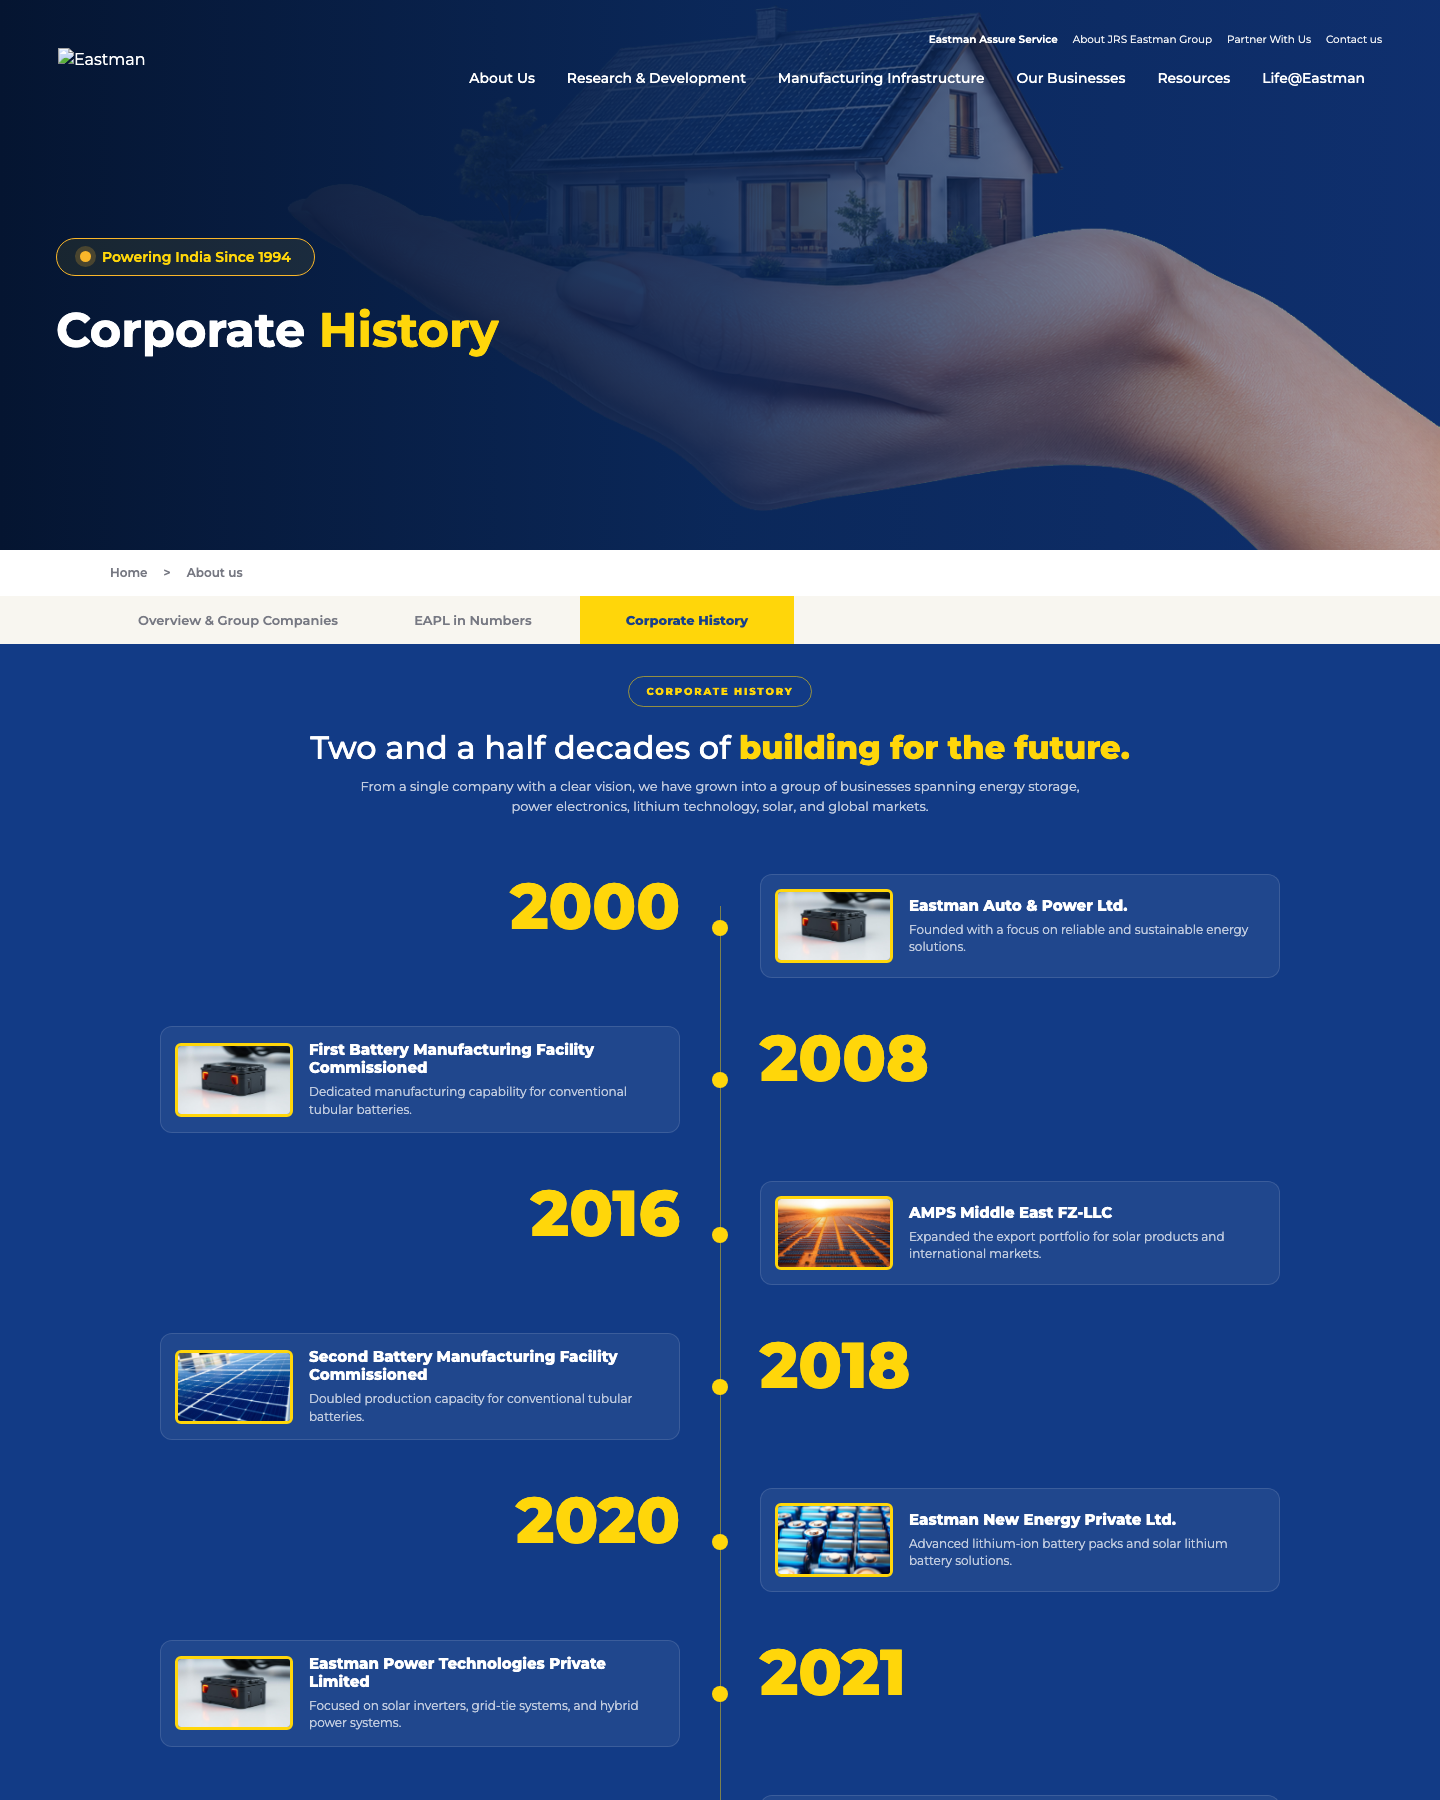
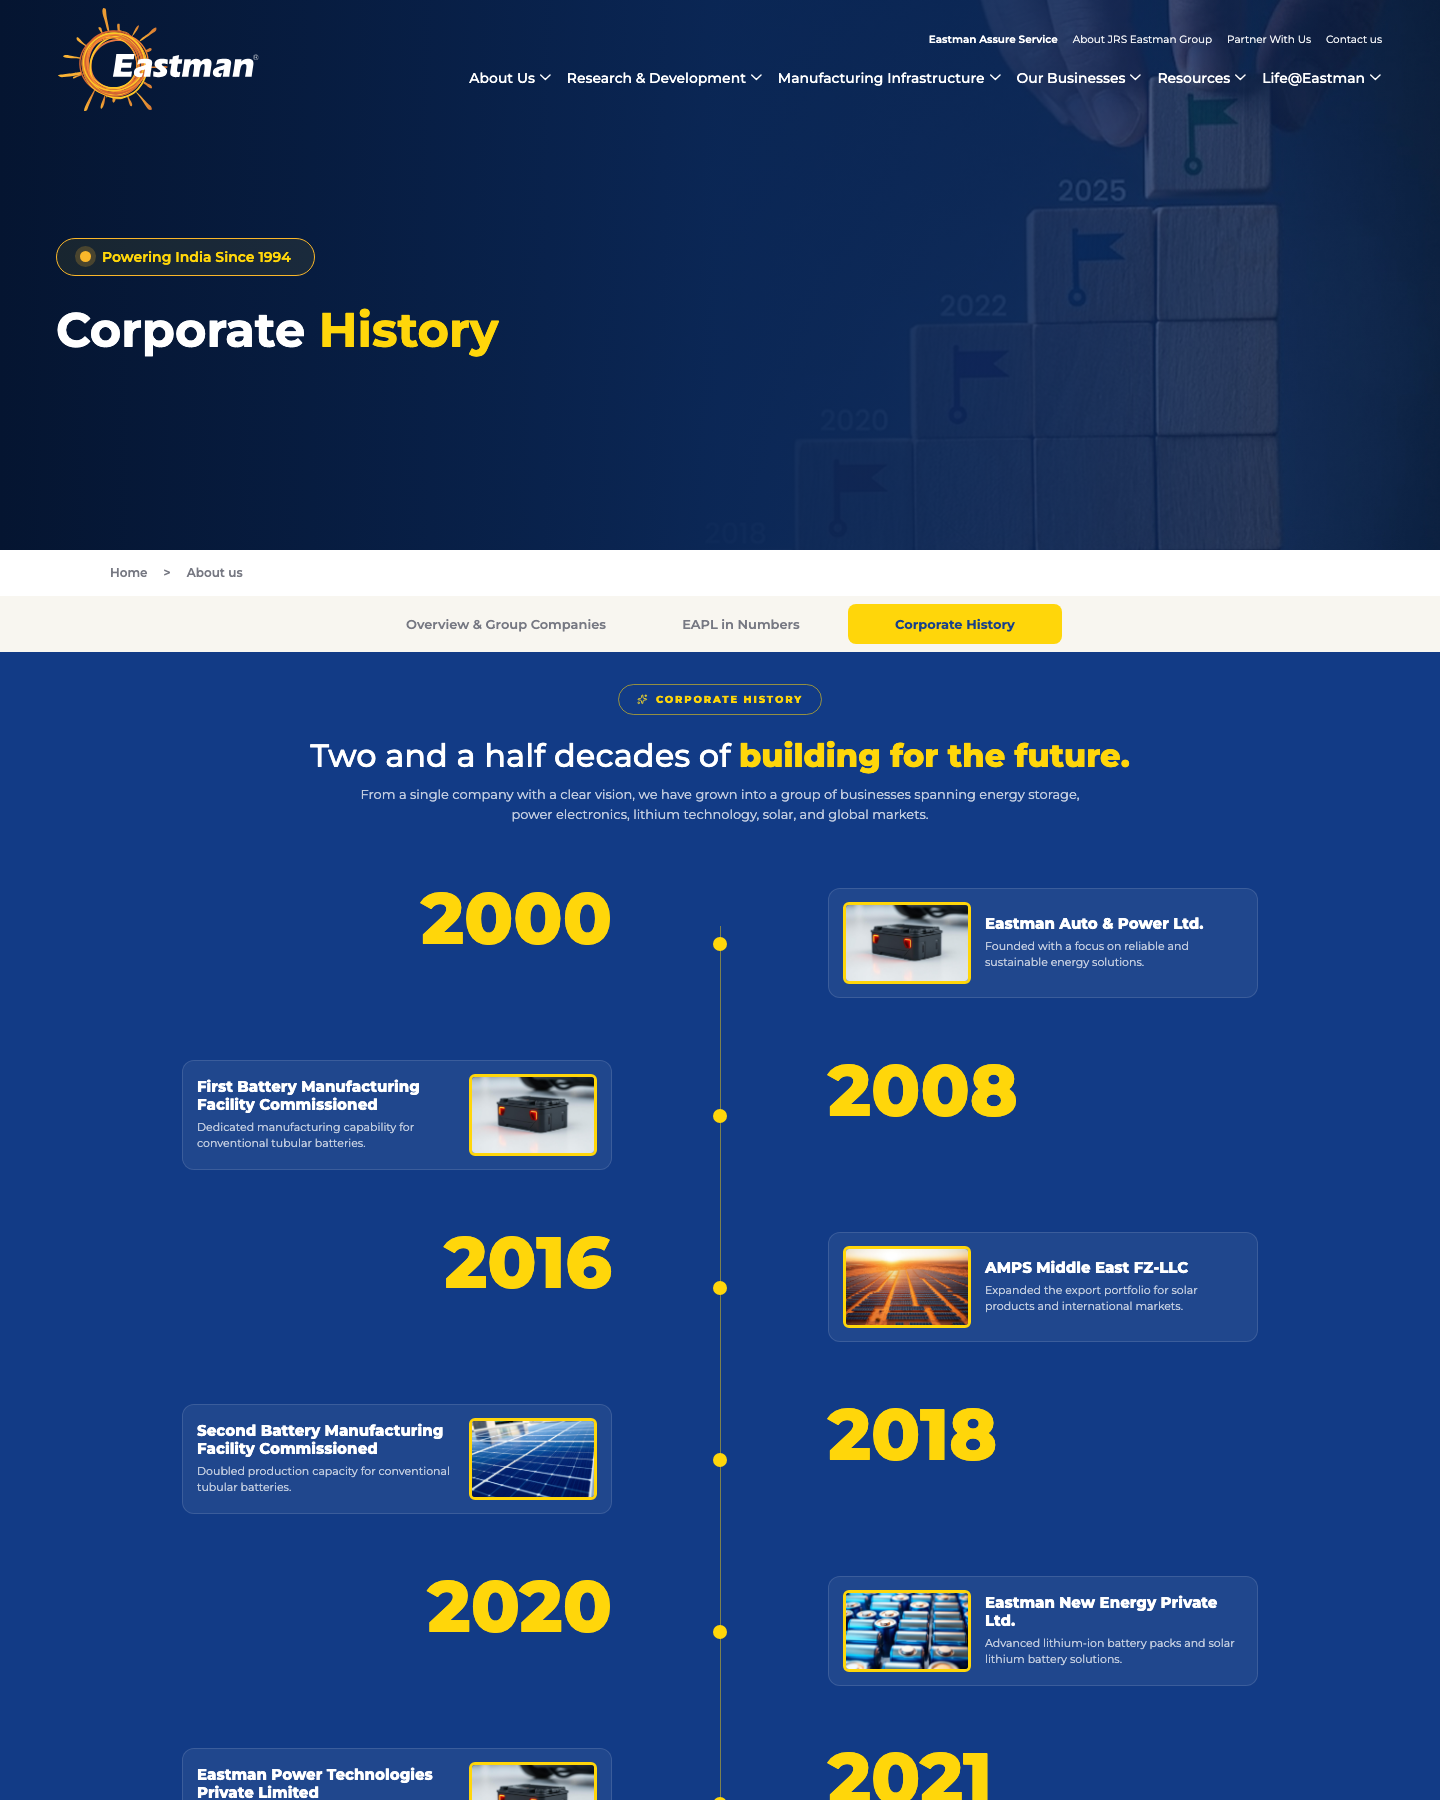
With About all three tabs

diff --git a/css/about.css b/css/about.css
@@ -544,7 +544,7 @@ z-index: 1;
 .timeline::before {
   background: rgba(255, 214, 10, 0.45);
   content: "";
-  height: calc(100% - 86px);
+  height: calc(100% - 118px);
   left: 50%;
   position: absolute;
   top: 44px;
@@ -553,10 +553,11 @@ z-index: 1;
 
 .timeline-item {
   display: grid;
-  grid-template-columns: minmax(0, 390px) 142px minmax(0, 390px);
+  align-items: start;
+  grid-template-columns: minmax(0, 430px) 132px minmax(0, 430px);
   justify-content: center;
-  min-height: 158px;
-  margin-bottom: 14px;
+  min-height: 154px;
+  margin-bottom: 18px;
   position: relative;
 }
 
@@ -571,11 +572,26 @@ z-index: 1;
   width: 14px;
 }
 
-.timeline-item time {
+.timeline-year {
   color: var(--yellow);
+  min-width: 190px;
+}
+
+.timeline-item time {
+  display: block;
   font-size: 72px;
   font-weight: 800;
   line-height: 1;
+}
+
+.timeline-year span {
+  display: block;
+  font-size: 8px;
+  font-weight: 800;
+  letter-spacing: 0.42em;
+  line-height: 1;
+  margin-top: 10px;
+  text-transform: uppercase;
 }
 
 .timeline-card {
@@ -588,7 +604,7 @@ z-index: 1;
   grid-template-columns: 128px 1fr;
   min-height: 110px;
   padding: 12px 14px;
-  width: 382px;
+  width: 430px;
 }
 
 .timeline-card img {
@@ -614,29 +630,97 @@ z-index: 1;
   margin: 0;
 }
 
-.timeline-item--right time {
-  grid-column: 1 / 3;
-  justify-self: center;
-  padding-right: 48px;
+.timeline-item--right .timeline-year {
+  grid-column: 1;
+  justify-self: end;
+  margin-right: 42px;
+  text-align: right;
 }
 
 .timeline-item--right .timeline-card {
   grid-column: 3;
   justify-self: start;
+  margin-left: 42px;
   margin-top: 6px;
 }
 
-.timeline-item--left time {
-  grid-column: 2 / 4;
-  justify-self: center;
-  padding-left: 48px;
+.timeline-item--left .timeline-year {
+  grid-column: 3;
+  justify-self: start;
+  margin-left: 42px;
+  text-align: left;
 }
 
 .timeline-item--left .timeline-card {
   grid-column: 1;
   grid-row: 1;
+  grid-template-columns: 1fr 128px;
   justify-self: end;
+  margin-right: 42px;
   margin-top: 6px;
+}
+
+.timeline-item--left .timeline-card img {
+  grid-column: 2;
+}
+
+.timeline-item--left .timeline-card div {
+  grid-column: 1;
+  grid-row: 1;
+}
+
+.timeline-end {
+  align-items: center;
+  color: var(--yellow);
+  display: flex;
+  flex-direction: column;
+  gap: 14px;
+  margin: 20px auto 0;
+  position: relative;
+  text-align: center;
+  width: max-content;
+  z-index: 1;
+}
+
+.timeline-end span {
+  align-items: center;
+  background: var(--yellow);
+  border-radius: 50%;
+  display: flex;
+  height: 38px;
+  justify-content: center;
+  position: relative;
+  width: 38px;
+}
+/* 
+.timeline-end span::before {
+  border: 2px solid #123b86;
+  border-radius: 50%;
+  content: "";
+  height: 10px;
+  left: 12px;
+  position: absolute;
+  top: 9px;
+  width: 10px;
+}
+
+.timeline-end span::after {
+  border-left: 4px solid transparent;
+  border-right: 4px solid transparent;
+  border-top: 10px solid #123b86;
+  content: "";
+  left: 15px;
+  position: absolute;
+  top: 20px;
+} */
+
+.timeline-end p {
+  font-size: 8px;
+  font-weight: 800;
+  letter-spacing: 0.42em;
+  line-height: 1;
+  margin: 0;
+  text-transform: uppercase;
 }
 
 .history-market {
@@ -942,6 +1026,7 @@ z-index: 1;
   }
 
   .timeline::before {
+    height: calc(100% - 74px);
     left: 13px;
   }
 
@@ -959,30 +1044,91 @@ z-index: 1;
     width: 10px;
   }
 
-  .timeline-item time,
-  .timeline-item--right time,
-  .timeline-item--left time,
+  .timeline-year,
+  .timeline-item--right .timeline-year,
+  .timeline-item--left .timeline-year,
   .timeline-item--right .timeline-card,
   .timeline-item--left .timeline-card {
     grid-column: 2;
     justify-self: start;
   }
 
+  .timeline-year {
+    margin-left: 0;
+    margin-right: 0;
+    min-width: 0;
+    text-align: left;
+  }
+
   .timeline-item time {
     font-size: 20px;
   }
 
+  .timeline-year span {
+    font-size: 7px;
+    letter-spacing: 0.28em;
+    margin-top: 5px;
+  }
+
   .timeline-card {
     grid-template-columns: 1fr;
+    margin-left: 0;
+    margin-right: 0;
     min-width: 0;
     overflow: hidden;
     padding: 12px;
     width: 100%;
   }
 
+  .timeline-item--left .timeline-card {
+    grid-template-columns: 1fr;
+  }
+
   .timeline-card img {
+    grid-column: auto;
     height: 112px;
     width: 100%;
+  }
+
+  .timeline-item--left .timeline-card div {
+    grid-column: auto;
+    grid-row: auto;
+  }
+
+  .timeline-end {
+    align-items: flex-start;
+    gap: 10px;
+    margin: 8px 0 0 0;
+    padding-left: 0;
+    text-align: left;
+    width: auto;
+  }
+
+  .timeline-end span {
+    height: 30px;
+    margin-left: 3px;
+    width: 30px;
+  }
+
+  .timeline-end span::before {
+    height: 8px;
+    left: 9px;
+    top: 7px;
+    width: 8px;
+  }
+
+  .timeline-end span::after {
+    border-left-width: 3px;
+    border-right-width: 3px;
+    border-top-width: 8px;
+    left: 12px;
+    top: 17px;
+  }
+
+  .timeline-end p {
+    font-size: 7px;
+    letter-spacing: 0.28em;
+    padding-left: 0;
   }
 
   .timeline-card h3 {

diff --git a/corporate-history.html b/corporate-history.html
@@ -43,54 +43,58 @@
           </div>
           <div class="timeline">
             <article class="timeline-item timeline-item--right">
-              <time>2000</time>
+              <div class="timeline-year"><time>2000</time><span>Founded</span></div>
               <div class="timeline-card">
                 <img src="/images/group-power-tech.png" alt="" />
                 <div><h3>Eastman Auto &amp; Power Ltd.</h3><p>Founded with a focus on reliable and sustainable energy solutions.</p></div>
               </div>
             </article>
             <article class="timeline-item timeline-item--left">
-              <time>2008</time>
+              <div class="timeline-year"><time>2008</time><span>Capacity</span></div>
               <div class="timeline-card">
                 <img src="/images/group-power-tech.png" alt="" />
                 <div><h3>First Battery Manufacturing Facility Commissioned</h3><p>Dedicated manufacturing capability for conventional tubular batteries.</p></div>
               </div>
             </article>
             <article class="timeline-item timeline-item--right">
-              <time>2016</time>
+              <div class="timeline-year"><time>2016</time><span>Diversification</span></div>
               <div class="timeline-card">
                 <img src="/images/group-amps.png" alt="" />
                 <div><h3>AMPS Middle East FZ-LLC</h3><p>Expanded the export portfolio for solar products and international markets.</p></div>
               </div>
             </article>
             <article class="timeline-item timeline-item--left">
-              <time>2018</time>
+              <div class="timeline-year"><time>2018</time><span>50+ Countries</span></div>
               <div class="timeline-card">
                 <img src="/images/group-green-tech.png" alt="" />
                 <div><h3>Second Battery Manufacturing Facility Commissioned</h3><p>Doubled production capacity for conventional tubular batteries.</p></div>
               </div>
             </article>
             <article class="timeline-item timeline-item--right">
-              <time>2020</time>
+              <div class="timeline-year"><time>2020</time><span>Renewables</span></div>
               <div class="timeline-card">
                 <img src="/images/group-new-energy.png" alt="" />
                 <div><h3>Eastman New Energy Private Ltd.</h3><p>Advanced lithium-ion battery packs and solar lithium battery solutions.</p></div>
               </div>
             </article>
             <article class="timeline-item timeline-item--left">
-              <time>2021</time>
+              <div class="timeline-year"><time>2021</time><span>Storage 2.0</span></div>
               <div class="timeline-card">
                 <img src="/images/group-power-tech.png" alt="" />
                 <div><h3>Eastman Power Technologies Private Limited</h3><p>Focused on solar inverters, grid-tie systems, and hybrid power systems.</p></div>
               </div>
             </article>
             <article class="timeline-item timeline-item--right">
-              <time>2021</time>
+              <div class="timeline-year"><time>2021</time><span>EV Powertrain</span></div>
               <div class="timeline-card">
                 <img src="/images/group-green-tech.png" alt="" />
                 <div><h3>Eastman Green Technologies Pvt. Ltd.</h3><p>High-performance solar panels engineered for homes, commerce, and industry.</p></div>
               </div>
             </article>
+            <div class="timeline-end">
+              <span aria-hidden="true"><img src="/images/journey-icn.svg" alt="" /></span>
+              <p>The journey continues</p>
+            </div>
           </div>
         </section>
 